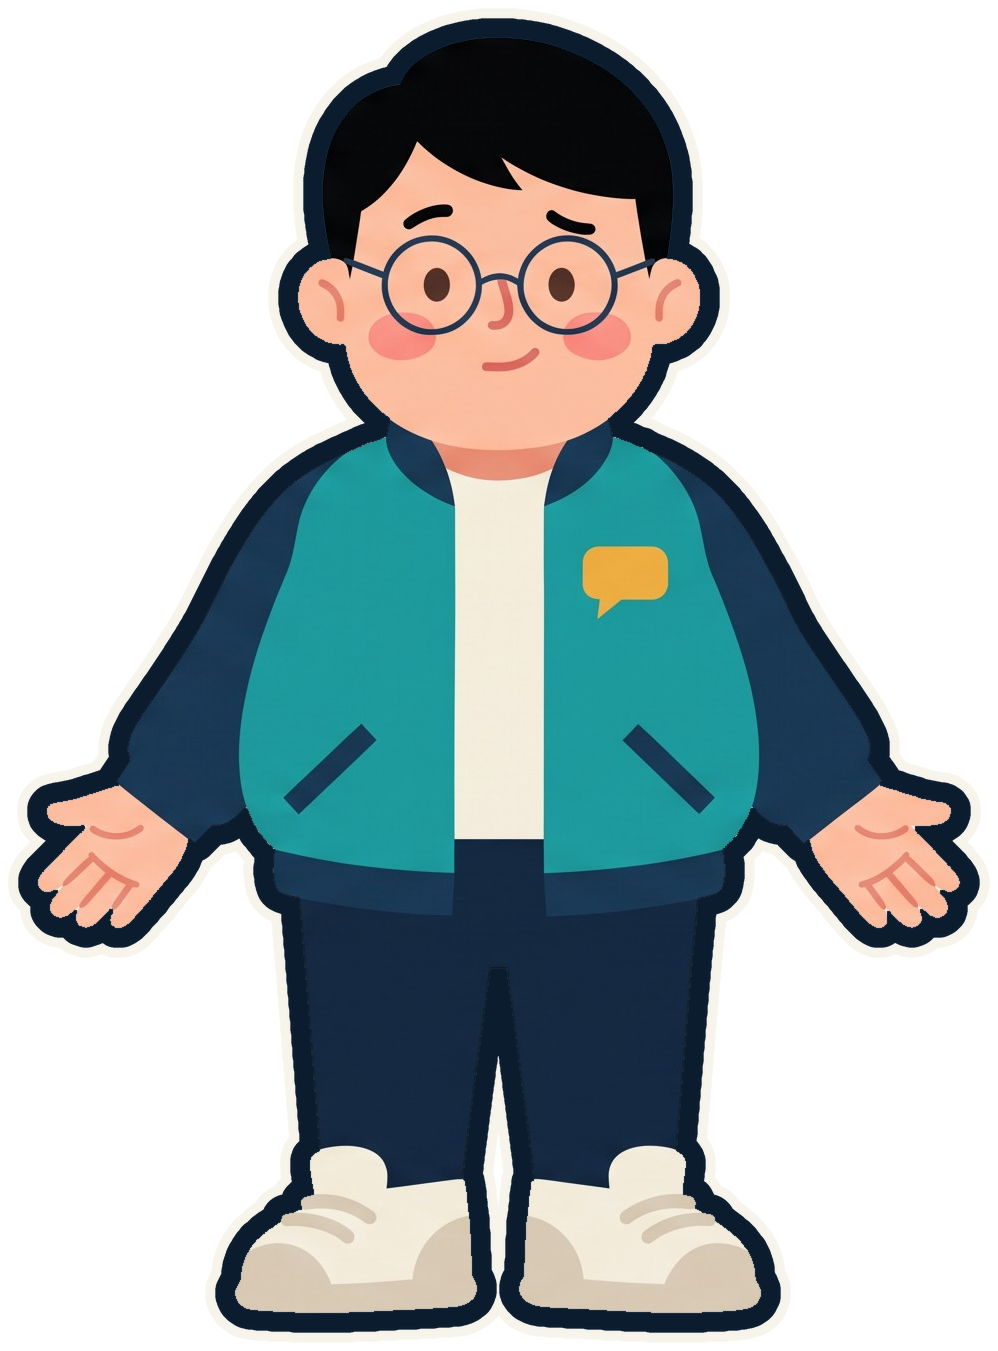
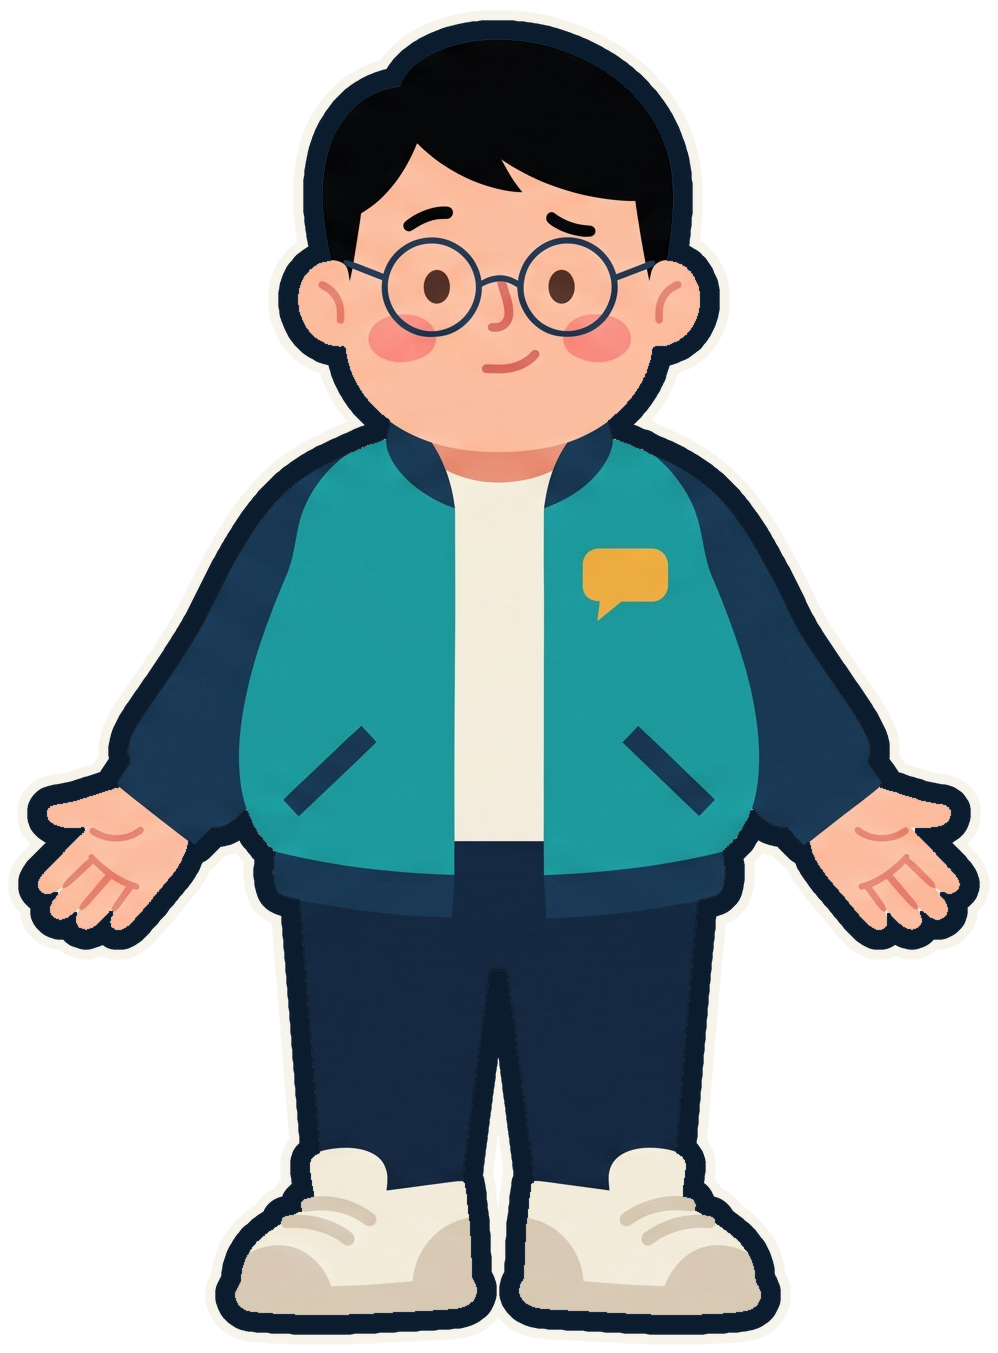
feat: add six FLUX-derived mascot poses with baked sticker outline to brand, schemas and draft prompt

diff --git a/video/src/types.ts b/video/src/types.ts
@@ -10,7 +10,7 @@ export const VisualAssetRefSchema = z
   .object({
     path: safeRelativePath,
     role: z.enum(['whiteboard', 'mascot', 'brand', 'chart']),
-    pose: z.enum(['welcome', 'explain', 'caution']).nullable().optional(),
+    pose: z.enum(['welcome', 'explain', 'caution', 'point_up', 'thinking', 'surprised', 'thumbs_up', 'blank_board', 'myth_bust']).nullable().optional(),
   })
   .superRefine((asset, context) => {
     if (asset.role === 'mascot' && !asset.pose) {

diff --git a/tools/flux/mascot_poses.py b/tools/flux/mascot_poses.py
@@ -6,7 +6,7 @@ import json
 import sys
 from pathlib import Path
 
-from PIL import Image, ImageDraw
+from PIL import Image, ImageDraw, ImageFilter
 
 REPO_ROOT = Path(__file__).resolve().parents[2]
 sys.path.insert(0, str(REPO_ROOT / "src"))
@@ -59,6 +59,7 @@ def load_pose_specs(poses_file: Path = DEFAULT_POSES_FILE) -> list[dict]:
             "label": str(item.get("label", pose_id)).strip(),
             "change": change,
             "seed": seed,
+            "holes": tuple(tuple(point) for point in item.get("holes") or ()),
         })
     return specs
 
@@ -180,8 +181,65 @@ def generate_mascot_poses(
     return manifest
 
 
+SOURCE_DIR = REPO_ROOT / "assets/brand/mascot/source"
+SOURCE_FIGURE_HEIGHT = 1277  # figure height of the original welcome/explain/caution sources
+
+
+def cutout_pose(
+    path: Path, holes: tuple[tuple[int, int], ...] = (), figure_height: int = SOURCE_FIGURE_HEIGHT,
+) -> Image.Image:
+    """Turn a white-background candidate into an unoutlined RGBA source like the originals.
+
+    Only near-white pixels connected to the image border become transparent, so the cream
+    shirt and a blank board inside the figure stay opaque.
+    """
+    with Image.open(path) as raw:
+        rgb = _paste_rgba_on_white(raw)
+    mask = rgb.convert("L").point(lambda value: 255 if value >= 236 else 0)
+    for seed in ((0, 0), (mask.width - 1, 0), (0, mask.height - 1), (mask.width - 1, mask.height - 1)):
+        if mask.getpixel(seed) == 255:
+            ImageDraw.floodfill(mask, seed, 128)
+    # background trapped between an arm/leg and the body looks like the shirt, glasses or a
+    # blank board to a threshold, so each pose names its gaps explicitly (candidate pixels)
+    for seed in holes:
+        if mask.getpixel(tuple(seed)) != 255:
+            raise ValueError(f"Hole seed {seed} is not on enclosed background in {path}")
+        ImageDraw.floodfill(mask, tuple(seed), 128)
+    # erode 2 px so the antialiased light fringe never sits on top of the baked outline
+    alpha = mask.point(lambda value: 0 if value == 128 else 255).filter(ImageFilter.MinFilter(5))
+    figure = rgb.convert("RGBA")
+    figure.putalpha(alpha)
+    bbox = alpha.getbbox()
+    if bbox is None:
+        raise ValueError(f"Pose candidate has no figure: {path}")
+    figure = figure.crop(bbox)
+    scale = figure_height / figure.height
+    return figure.resize((round(figure.width * scale), figure_height), Image.Resampling.LANCZOS)
+
+
+def promote_poses(
+    out_dir: Path = DEFAULT_OUT_DIR, source_dir: Path = SOURCE_DIR, poses_file: Path = DEFAULT_POSES_FILE,
+) -> list[Path]:
+    """Copy every non-stale candidate into the brand source folder for build_mascot_artwork."""
+    manifest = json.loads((out_dir / "manifest.json").read_text(encoding="utf-8"))
+    stale = [pose_id for pose_id, entry in manifest["poses"].items() if entry.get("stale")]
+    if stale:
+        raise ValueError(f"Regenerate stale poses before promoting: {', '.join(stale)}")
+    specs = {spec["id"]: spec for spec in load_pose_specs(poses_file)}
+    source_dir.mkdir(parents=True, exist_ok=True)
+    written = []
+    for pose_id in manifest["poses"]:
+        target = source_dir / f"{pose_id}.png"
+        holes = specs[pose_id]["holes"] if pose_id in specs else ()
+        cutout_pose(out_dir / f"{pose_id}.png", holes).save(target, optimize=False, compress_level=9)
+        written.append(target)
+    return written
+
+
 def main() -> int:
     parser = argparse.ArgumentParser(description=__doc__)
+    parser.add_argument("--promote", action="store_true",
+                        help="Write reviewed candidates to assets/brand/mascot/source/ instead of generating")
     parser.add_argument("--anchor", type=Path, default=DEFAULT_ANCHOR)
     parser.add_argument("--poses-file", type=Path, default=DEFAULT_POSES_FILE)
     parser.add_argument("--out-dir", type=Path, default=DEFAULT_OUT_DIR)
@@ -190,6 +248,10 @@ def main() -> int:
     parser.add_argument("--height", type=int, default=1024)
     args = parser.parse_args()
     try:
+        if args.promote:
+            for path in promote_poses(args.out_dir, poses_file=args.poses_file):
+                print(path.as_posix())
+            return 0
         manifest = generate_mascot_poses(
             anchor=args.anchor,
             poses_file=args.poses_file,

diff --git a/src/healthvideo/domain/brand.py b/src/healthvideo/domain/brand.py
@@ -17,6 +17,12 @@ class MascotPose(StrEnum):
     WELCOME = "welcome"
     EXPLAIN = "explain"
     CAUTION = "caution"
+    POINT_UP = "point_up"
+    THINKING = "thinking"
+    SURPRISED = "surprised"
+    THUMBS_UP = "thumbs_up"
+    BLANK_BOARD = "blank_board"
+    MYTH_BUST = "myth_bust"
 
 
 class LogoVariant(StrEnum):
@@ -97,16 +103,12 @@ class MascotIdentity(BaseModel):
 
     @model_validator(mode="after")
     def _exact_pose_set(self) -> "MascotIdentity":
-        expected = (
-            MascotPose.WELCOME,
-            MascotPose.EXPLAIN,
-            MascotPose.CAUTION,
-        )
+        expected = tuple(MascotPose)
         if self.poses != expected:
-            raise ValueError("mascot poses must be welcome, explain, caution")
+            raise ValueError(f"mascot poses must be {', '.join(expected)}")
         if self.artwork is not None:
             if set(self.artwork) != set(expected):
-                raise ValueError("mascot artwork requires all three poses")
+                raise ValueError("mascot artwork requires all poses")
             dimensions = {item.png_dimensions() for item in self.artwork.values()}
             if len(dimensions) != 1:
                 raise ValueError("mascot artwork must have the same dimensions")

diff --git a/tests/test_flux.py b/tests/test_flux.py
@@ -276,3 +276,25 @@ def test_mascot_poses_manifest_staleness_and_only(tmp_path):
 
     with pytest.raises(ValueError, match='Unknown pose id'):
         generate_mascot_poses(anchor=anchor, out_dir=out_dir, only='nonexistent', generate=fake_generate)
+
+
+def test_cutout_pose_clears_background_and_named_holes_only(tmp_path):
+    from PIL import Image, ImageDraw
+
+    from tools.flux.mascot_poses import cutout_pose
+
+    image = Image.new("RGB", (100, 100), "white")
+    draw = ImageDraw.Draw(image)
+    draw.rectangle((20, 20, 80, 80), fill="#12304A")
+    draw.rectangle((30, 30, 45, 70), fill="white")  # gap trapped between "arm" and "body"
+    draw.rectangle((55, 30, 70, 70), fill="white")  # blank board: must stay opaque
+    path = tmp_path / "pose.png"
+    image.save(path)
+
+    figure = cutout_pose(path, holes=((35, 50),), figure_height=61)
+    alpha = figure.getchannel("A")
+    assert figure.size == (61, 61)  # cropped to the figure, background gone
+    assert alpha.getpixel((17, 30)) == 0
+    assert alpha.getpixel((44, 30)) == 255
+    with pytest.raises(ValueError, match="Hole seed"):
+        cutout_pose(path, holes=((25, 25),))

diff --git a/tests/domain/test_brand.py b/tests/domain/test_brand.py
@@ -35,11 +35,7 @@ def test_brand_profile_has_approved_pyh_tokens(brand_profile_path) -> None:
     brand = load_brand_profile(brand_profile_path)
     assert brand.canvas == BrandCanvas(width=1080, height=1920, fps=30)
     assert brand.colors.model_dump() == valid_brand_data()["colors"]
-    assert brand.mascot.poses == (
-        MascotPose.WELCOME,
-        MascotPose.EXPLAIN,
-        MascotPose.CAUTION,
-    )
+    assert brand.mascot.poses == tuple(MascotPose)
 
 
 @pytest.mark.parametrize("color", ["12304A", "#xyzxyz", "#12304AFF"])
@@ -86,7 +82,7 @@ def test_palette_matches_profile(brand_profile_path) -> None:
 
 
 @pytest.mark.parametrize("problem, message", [
-    ("missing_pose", "three poses"),
+    ("missing_pose", "all poses"),
     ("hash", "SHA-256"),
     ("signature", "PNG"),
     ("rgb", "RGBA"),

diff --git a/tools/build_mascot_artwork.py b/tools/build_mascot_artwork.py
@@ -12,7 +12,6 @@ import yaml
 from PIL import Image, ImageChops, ImageDraw, ImageFilter, ImageOps
 
 ROOT = Path(__file__).resolve().parents[1]
-POSES = ("welcome", "explain", "caution")
 
 
 def _disk_dilation(alpha: Image.Image, radius: int) -> Image.Image:
@@ -65,7 +64,7 @@ def main() -> None:
     colours = profile["colors"]
     directory = ROOT / "assets/brand/mascot"
     figures = {}
-    for pose in POSES:
+    for pose in profile["mascot"]["poses"]:
         with Image.open(directory / "source" / f"{pose}.png") as source:
             figures[pose] = outline_figure(source, colours["night"], colours["off_white"])
     size = (max(768, *(im.width for im in figures.values())),

diff --git a/tests/conftest.py b/tests/conftest.py
@@ -2,6 +2,7 @@ from hashlib import sha256
 
 import pytest
 
+from healthvideo.domain.brand import MascotPose
 from healthvideo.storage.files import read_yaml, write_yaml_atomic
 from tests.brand_artwork import png_bytes
 
@@ -68,7 +69,7 @@ def artwork_brand(tmp_path, monkeypatch):
 
     data = read_yaml(brand.Path("profiles/brand.vi.yaml"))
     artwork = {}
-    for pose in ("welcome", "explain", "caution"):
+    for pose in [item.value for item in MascotPose]:
         path = f"assets/brand/mascot/{pose}.png"
         target = tmp_path / path
         target.parent.mkdir(parents=True, exist_ok=True)

diff --git a/src/healthvideo/visuals/mascot.py b/src/healthvideo/visuals/mascot.py
@@ -23,7 +23,7 @@ _ARMS = {
 def render_mascot(brand: BrandProfile, pose: MascotPose) -> bytes:
     """Render one fixed reaction pose without accepting content fields."""
     colors = brand.colors
-    arms = _ARMS[pose]
+    arms = _ARMS.get(pose, _ARMS[MascotPose.EXPLAIN])
     return (
         '<svg xmlns="http://www.w3.org/2000/svg" viewBox="0 0 760 900" role="img" '
         f'aria-label="PYH guide placeholder {pose.value}">\n'

diff --git a/tests/visuals/test_mascot.py b/tests/visuals/test_mascot.py
@@ -29,7 +29,7 @@ def test_mascot_pose_is_safe_and_deterministic(brand, pose: MascotPose) -> None:
 
 def test_mascot_poses_differ_but_share_rig(brand) -> None:
     outputs = {pose: render_mascot(brand, pose) for pose in MascotPose}
-    assert len(set(outputs.values())) == 3
+    assert len(set(outputs.values())) == len(MascotPose)
     for pose, svg in outputs.items():
         assert f'mascot-pose-{pose.value}'.encode() in svg
 

diff --git a/README.md b/README.md
@@ -91,6 +91,7 @@ Ngoài ra, nhóm lệnh ẩn `healthvideo step ...` (`hidden=True`) dành riêng
 
 | Task | Deliverable | Status | Tests | Commit |
 | --- | --- | --- | --- | --- |
+| Gói I2: đưa 6 tư thế mascot mới vào xưởng | `point_up`, `thinking`, `surprised`, `thumbs_up`, `blank_board`, `myth_bust` thêm vào `MascotPose`, `profiles/brand.vi.yaml`, zod và schemas; `mascot_poses.py --promote` tách nền (khe kẹp khai báo `holes` trong `poses.yaml`) thành ảnh gốc, `build_mascot_artwork.py` đọc danh sách pose từ profile và nướng viền sticker; `draft.md` mục 13 hướng dẫn chọn pose | complete | pytest full; Ruff; vitest; typecheck | gói I2 |
 | Gói I: quy tắc prompt ảnh FLUX + bộ tư thế mascot từ ảnh gốc | Viết `docs/reference/image-prompting.md` (quy tắc khung hình câu đầu, hiệu ứng ánh sáng, 1 chủ thể/danh sách đồng nhất ngắn, chống mùi AI phẳng, ngoại hóa triệu chứng qua cơ thể, 5 cặp ví dụ y khoa cũ→mới, hook 3s đầu có chuyển động) và nối vào `prompts/draft.md`, `prompts/revise_production.md`; mở rộng `tools/flux/generate.py` (`--ref`, tối đa 2 ảnh) và `visuals/flux.py` (`refs` kèm SHA-256 trong `illustration_recipe_hash`, giữ nguyên hash khi không có `refs`); thêm `assets/brand/mascot/poses.yaml` + `tools/flux/mascot_poses.py` (`manifest.json`, đánh dấu `stale: true` khi đổi anchor, `--only <id>`, ghép `sheet.png`) và ghi nguồn `shuohao-skills` (Apache-2.0) trong `NOTICE` | complete — ảnh tư thế là ứng viên trong `cache/mascot-poses/`, chưa đưa vào `MascotPose` | pytest full; Ruff; sinh thật 6 tư thế trên GPU | gói I |
 | Gói H: bộ chuyển động từ `video-shotcraft` | Port 14 thẻ chuyển động Remotion vào `video/src/motion/` (giữ nguyên thông số thời gian/命门, font tiếng Việt `Be Vietnam Pro`, bảng màu brand, ghi nguồn Apache-2.0 + `NOTICE`, không giữ nội dung/số liệu y khoa mặc định); nối `Scene.motion` (`{emphasis?, emphasis_text?, transition_in?}` kiểm `emphasis_text` nằm trong `narration`), `visual: stat_gauge` (bắt buộc `claim_id` thuộc ledger, nhóm `chart_crop`, `StatGaugeScene` với 3 biến thể `gauge-readout-moves` / `chart-live-moves` / `timeline-travel`) và `visual: kinetic_term` (nhóm `whiteboard_svg`, `KineticTermScene`) đồng bộ giữa Python (`domain/storyboard.py`, `visual_budget.py`, `workflows/citations.py`, `schemas/*.json`) và Zod (`video/src/types.ts`, `HealthVideo.tsx`); viết `docs/reference/motion-vocabulary.md` (≤150 dòng) và cập nhật `prompts/draft.md` | complete — chờ Claude review | pytest full; Ruff; vitest 32 files / 251 passed; typecheck | Chờ Claude review/commit |
 | Gói G: mẫu giai đoạn 1 viết kịch bản thật | `workflows/factory_trials.py`, `workflows/factory_deps.py`, `workflows/dashboard.py`, `workflows/dashboard.html`: `run_trial` giai đoạn 1 dựng project nháp trong `cache/factory-test/<trial_id>/project/` qua `create_project`, chạy tuần tự `research` → `draft` trong thread nền với `render_prompt` + `prompt_block(root)` + `invoke_with_failover` (inject được cho test), khóa chống chạy song song, tự chuyển trial `running` mồ côi sang `failed`; UI hiện trạng thái `running` có spinner + bộ đếm `mm:ss` + tự poll 5 giây, tái dùng `tabScript`/`tabClaims`/`srcLine` hiển thị kịch bản kèm khẳng định y khoa và nguồn trích dẫn; giai đoạn 2–4 giữ mẫu ngoại tuyến | complete — chờ Claude review | pytest (`test_factory_trials`, `test_factory_app`, `test_dashboard*`, `test_factory_standards`, `test_factory_end_to_end`); Ruff | Chờ Claude review/commit |

diff --git a/src/healthvideo/prompts/draft.md b/src/healthvideo/prompts/draft.md
@@ -22,6 +22,7 @@
 10. Video dài có ít nhất 2 whiteboard minh họa FLUX (hook, mở chương); thiếu GPU thì ghi rõ. Viết prompt theo `docs/reference/image-prompting.md` (câu đầu định lượng khung hình/góc nhìn, tả hiệu ứng ánh sáng thay vì nguồn sáng, một chủ thể, triệu chứng qua tư thế cơ thể, phẳng sạch, ví dụ "flat medical illustration of a swollen red big toe joint, no text"); cấm vật thể ẩn dụ khó hiểu. Asset: `kind: illustration`, `semantic: false`, `rights_required: false`, `path: assets/illustrations/<name>.png`, `source: generated:flux2-klein-4b`, `license: Apache-2.0`, `creator`, `revision`, `prompt`, `seed`, `storyboard_role: whiteboard`; scene role `whiteboard`. Produce sinh 3 seed để visual_review chọn; ảnh và chữ có dải riêng, không đè nhau; ảnh AI không làm bằng chứng.
 11. Mỗi cảnh cơ chế có `beats: [{at: "từ khóa", focus: "FOCUS_REGION hoặc null", labels: ["id trong LABELS"], action: "CUE_ACTION hoặc null"}]`; `at` dùng số khi là giây. Cảnh > 12 giây có ≥ 2 beat; khoảng giữa thay đổi hình ≤ 6 giây. Whisper căn từ khóa; camera ease 0.8 giây, nhãn bật/tắt theo beat. Có thể thêm `anatomy.cues: [{word: "từ khóa", action: "CUE_ACTION"}]`. Whiteboard tách ý bằng dấu chấm phẩy để trải entrance; không dồn thay đổi đầu cảnh.
 12. Nhịp nhấn và thẻ chuyển động (`docs/reference/motion-vocabulary.md`): mỗi cảnh có thể gắn `motion: {{emphasis?: <tên thẻ>, emphasis_text?: "cụm từ có trong narration", transition_in?: <tên chuyển cảnh>}}` (nhấn mạnh tối đa 1 cụm/cảnh, không chồng hiệu ứng). Có thể dùng `visual: stat_gauge` (`stat_gauge: {{value, unit, label, max_value?, variant?}}`, bắt buộc gắn `claim_id` thuộc ledger, nhóm `chart_crop`) cho con số lâm sàng hoặc `visual: kinetic_term` (`kinetic_term: {{term, definition, variant?}}`, nhóm `whiteboard_svg`) cho thuật ngữ cốt lõi.
+13. Mascot người dẫn (tùy chọn, gia vị, không chiếm sóng): `visual_assets: [{{path: assets/brand/<pose>.png, role: mascot, pose: <pose>}}]`; chép PNG từ `assets/brand/mascot/<pose>.png` của repo, khai báo `kind: mascot_reaction`, `semantic: false`, `storyboard_role: mascot`, `sha256` của file, `source: repository:assets/brand/mascot/<pose>.png`. Chọn pose theo nhịp: `welcome` mở đầu, `explain` giải thích, `caution` giới hạn/cảnh báo, `point_up` ý chính, `thinking` đặt câu hỏi, `surprised` sự thật bất ngờ, `thumbs_up` thói quen đúng, `myth_bust` ngộ nhận phổ biến, `blank_board` tóm ý (chữ đặt bằng `on_screen_text`, không vẽ vào ảnh). Mascot không mang chữ, số hay claim.
 SFX (tùy chọn): mỗi cảnh tối đa 2 mục `sfx: [{{id: tick, at: start, volume: 0.2}}]`; chọn id từ `assets/sfx/catalog.yaml` (chỉ CC0).
 `at` là `start`, giây trong cảnh hoặc từ khóa lời đọc; volume 0.15–0.4. Dùng nhẹ, tránh âm báo động/giật gân.
 Mặc định có `whoosh-soft` mở chương và `chime-soft` vào `source_card`; đặt `sfx_defaults: false` ở storyboard để tắt.
